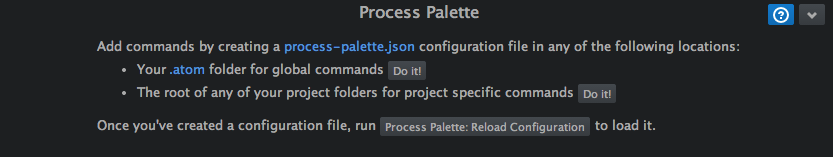
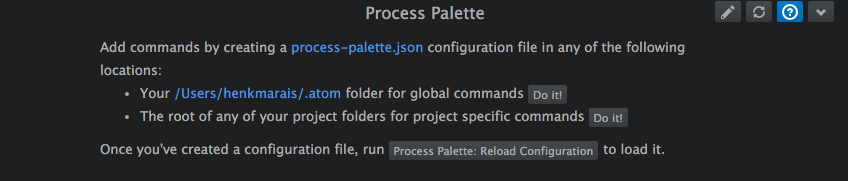
Update documentation.

diff --git a/styles/process-palette.less b/styles/process-palette.less
@@ -151,6 +151,7 @@
 }
 
 .process-palette-pattern-choose-view {
+
   .pattern-button {
     margin-right: 10px;
   }
@@ -164,7 +165,15 @@
   }
 }
 
+.process-palette-pattern-edit-view {
+  .header {
+    text-align: center;
+  }
+}
+
 .process-palette-table-edit-view {
+  border: 1px solid @tool-panel-border-color;
+  
   table {
     width: 100%;
     height: 100%;

diff --git a/README.md b/README.md
@@ -9,8 +9,9 @@ Install Process Palette and then either generate or download a configuration fil
 ### Generate Configuration
 1. Open the Process Palette panel by choosing `Packages|Process Palette|Toggle` from the menu or `Process Palette: Toggle` from the command palette. The following panel will appear:
 ![Screenshot](https://github.com/morassman/process-palette/blob/master/resources/help.png?raw=true)
-2. Create a global configuration or project specific configuration with the respective `Do it!` buttons.
-3. Load the new configuration files by choosing `Packages|Process Palette|Reload Configuration` from the menu, `Process Palette: Reload Configuration` from the command palette or simply pressing the reload button at the bottom.
+2. Create a global configuration or a project specific configuration with the respective `Do it!` buttons.
+3. Either of the `Do it!` buttons will create an example configuration file and open it in the graphical editor.
+4. Configuration files can be edited graphically by choosing `Packages|Process Palette|Edit Configuration` from the menu or `Process Palette: Edit Configuration` from the command palette. Closing the editor will automatically reload the configuration. The `process-palette.json` file can also be edited directly, but then it needs to be reloaded by running `Process Palette: Reload Configuration`.
 
 ### Download Configuration
 1. Download the example [process-palette.json][2f6a8e37] configuration file and place it in the root of your project folder.
@@ -27,6 +28,10 @@ It also contains an example called `Stream Example` to show the direct stream ab
 2. Read the rest of this document. Especially the **Properties** and **Variables** sections for extra flexibility.
 
 ## Configuration
+The graphical editor makes it easier to edit the configuration files. It can be used by choosing `Process Palette: Edit Configuration` from the command palette. A dialog will pop up from where you can choose to edit either the global configuration or a project specific configuration.
+
+The configuration files can also be edited by hand. The remainder of the document will describe how to do this.
+
 Commands are specified with a configuration file in JSON format. The name of the file must be `process-palette.json` and should be in the root of your project folder. If you have multiple project folders, each with its own configuration file, then their configurations will be merged.
 
 A `process-palette.json` file can also be placed in your `~/.atom` folder. If that is the case then it will be loaded first and any project specific files will be loaded afterwards.
@@ -53,7 +58,6 @@ Each entry in the array is an object that describes one command. The most basic 
 
 **Tip!** :
 All `process-palette.json` configuration files can be reloaded by running the `Process Palette: Reload Configuration` command. It can be found in the `Command Palette` or in the `Packages|Process Palette` menu.
-
 
 The new command will cause an entry to be added to the command palette called `Process Palette: Ant default`.
 
